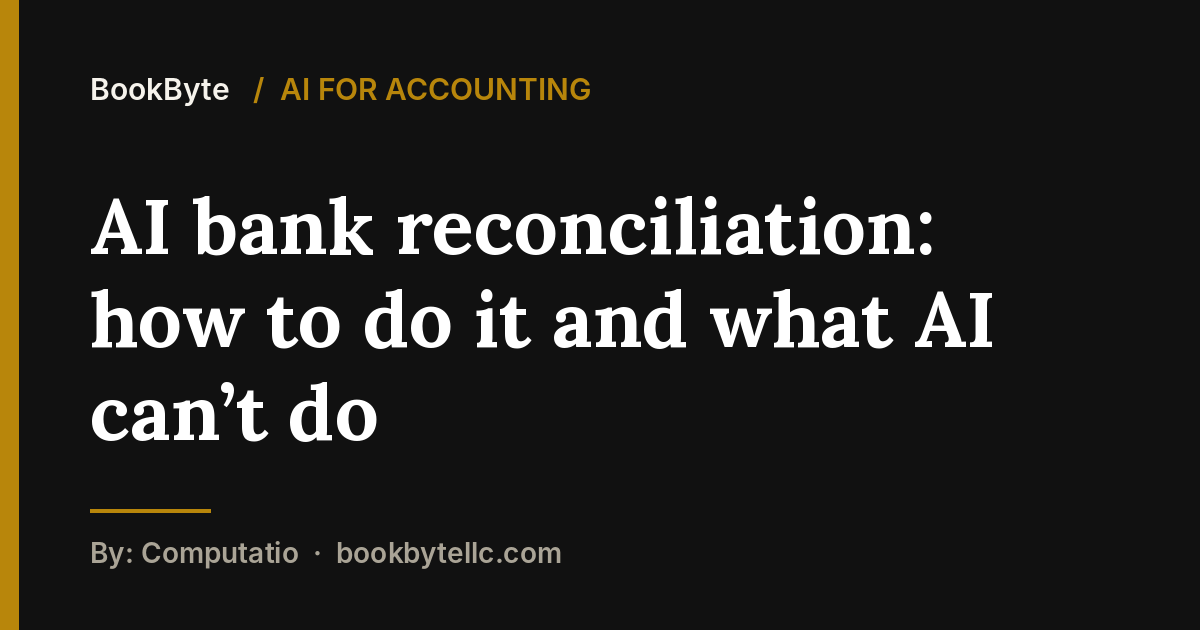
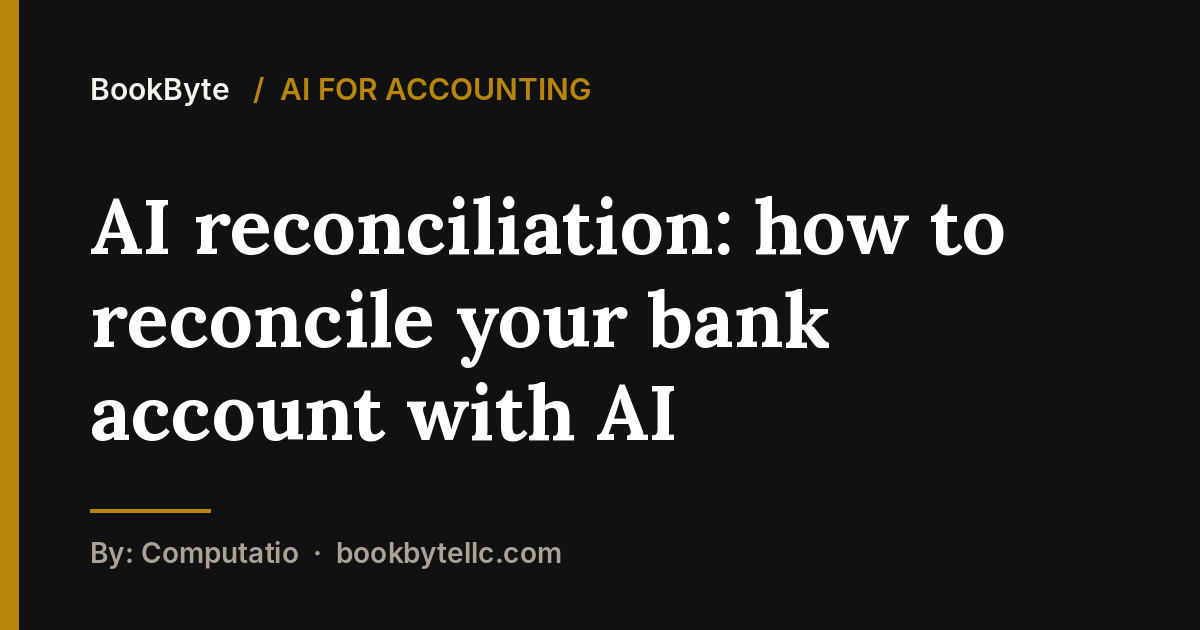
AI reconciliation guide: clearer title, direct answer, FAQ (FAQPage schema); free 13-week cash flow template linked from the canvas guide; credit card reconciliation follow-up on the calendar
Claude-Session: https://claude.ai/code/session_015RMd15M93mxq4tRnL7KYun

Changed region(s): [[0.0617, 0.4524, 0.8325, 0.6032], [0.1542, 0.3016, 0.8633, 0.4222], [0.0617, 0.6032, 0.5858, 0.7238]]

diff --git a/ai-accounting/ai-bank-reconciliation/index.html b/ai-accounting/ai-bank-reconciliation/index.html
@@ -3,29 +3,29 @@
 <head>
 <meta charset="utf-8">
 <meta name="viewport" content="width=device-width, initial-scale=1">
-<title>AI Bank Reconciliation: How to Reconcile With AI</title>
-<meta name="description" content="Use AI for bank reconciliation: copy-paste prompts to match your books to your statement, find missing and duplicate lines, and check the result yourself.">
+<title>AI Reconciliation: How to Reconcile Your Bank Account With AI</title>
+<meta name="description" content="AI reconciliation in plain English: free prompts to match your bank statement to your books, find missing and duplicate lines, and check the result.">
 <link rel="canonical" href="https://bookbytellc.com/ai-accounting/ai-bank-reconciliation/">
 
 <meta property="og:type" content="article">
 <meta property="og:site_name" content="BookByte">
-<meta property="og:title" content="AI Bank Reconciliation: How to Reconcile With AI">
-<meta property="og:description" content="Use AI for bank reconciliation: copy-paste prompts to match your books to your statement, find missing and duplicate lines, and check the result yourself.">
+<meta property="og:title" content="AI Reconciliation: How to Reconcile Your Bank Account With AI">
+<meta property="og:description" content="AI reconciliation in plain English: free prompts to match your bank statement to your books, find missing and duplicate lines, and check the result.">
 <meta property="og:url" content="https://bookbytellc.com/ai-accounting/ai-bank-reconciliation/">
 <meta property="og:image" content="https://bookbytellc.com/assets/og/ai-bank-reconciliation.png">
 <meta property="og:image:width" content="1200">
 <meta property="og:image:height" content="630">
-<meta property="og:image:alt" content="AI bank reconciliation: how to do it and what AI can’t do">
+<meta property="og:image:alt" content="AI reconciliation: how to reconcile your bank account with AI">
 <meta name="twitter:card" content="summary_large_image">
-<meta name="twitter:title" content="AI Bank Reconciliation: How to Reconcile With AI">
-<meta name="twitter:description" content="Use AI for bank reconciliation: copy-paste prompts to match your books to your statement, find missing and duplicate lines, and check the result yourself.">
+<meta name="twitter:title" content="AI Reconciliation: How to Reconcile Your Bank Account With AI">
+<meta name="twitter:description" content="AI reconciliation in plain English: free prompts to match your bank statement to your books, find missing and duplicate lines, and check the result.">
 <meta name="twitter:image" content="https://bookbytellc.com/assets/og/ai-bank-reconciliation.png">
 <meta name="theme-color" content="#111111">
 <link rel="icon" href="/assets/favicon.svg" type="image/svg+xml">
 <link rel="stylesheet" href="/assets/fonts.css">
 <link rel="stylesheet" href="/assets/style.css">
 <link rel="alternate" type="application/rss+xml" title="BookByte" href="/feed.xml">
-<script type="application/ld+json">[{"@context": "https://schema.org", "@type": "BreadcrumbList", "itemListElement": [{"@type": "ListItem", "position": 1, "name": "Home", "item": "https://bookbytellc.com/"}, {"@type": "ListItem", "position": 2, "name": "AI for Accounting", "item": "https://bookbytellc.com/ai-accounting/"}, {"@type": "ListItem", "position": 3, "name": "AI bank reconciliation: how to do it and what AI can&rsquo;t do", "item": "https://bookbytellc.com/ai-accounting/ai-bank-reconciliation/"}]}, {"@context": "https://schema.org", "@type": "Article", "headline": "AI bank reconciliation: how to do it and what AI can&rsquo;t do", "description": "Use AI for bank reconciliation: copy-paste prompts to match your books to your statement, find missing and duplicate lines, and check the result yourself.", "author": {"@type": "Organization", "name": "Computatio", "url": "https://computatio.io/"}, "publisher": {"@type": "Organization", "name": "BookByte"}, "datePublished": "2026-10-28", "dateModified": "2026-10-28", "mainEntityOfPage": "https://bookbytellc.com/ai-accounting/ai-bank-reconciliation/"}]</script>
+<script type="application/ld+json">[{"@context": "https://schema.org", "@type": "BreadcrumbList", "itemListElement": [{"@type": "ListItem", "position": 1, "name": "Home", "item": "https://bookbytellc.com/"}, {"@type": "ListItem", "position": 2, "name": "AI for Accounting", "item": "https://bookbytellc.com/ai-accounting/"}, {"@type": "ListItem", "position": 3, "name": "AI reconciliation: how to reconcile your bank account with AI", "item": "https://bookbytellc.com/ai-accounting/ai-bank-reconciliation/"}]}, {"@context": "https://schema.org", "@type": "Article", "headline": "AI reconciliation: how to reconcile your bank account with AI", "description": "AI reconciliation in plain English: free prompts to match your bank statement to your books, find missing and duplicate lines, and check the result.", "author": {"@type": "Organization", "name": "Computatio", "url": "https://computatio.io/"}, "publisher": {"@type": "Organization", "name": "BookByte"}, "datePublished": "2026-10-28", "dateModified": "2026-11-17", "mainEntityOfPage": "https://bookbytellc.com/ai-accounting/ai-bank-reconciliation/"}, {"@context": "https://schema.org", "@type": "FAQPage", "mainEntity": [{"@type": "Question", "name": "Can AI reconcile my bank account by itself?", "acceptedAnswer": {"@type": "Answer", "text": "No. AI can match lines and suggest why the rest don’t match, but it can’t see your bank or sign off. The reconciliation is done when your bookkeeping software shows the adjusted bank balance equal to your book balance."}}, {"@type": "Question", "name": "Is it safe to paste a bank statement into ChatGPT or Claude?", "acceptedAnswer": {"@type": "Answer", "text": "Remove full account and card numbers first and keep only the date, description and amount. Our data safety guide covers which settings to check before you paste anything."}}, {"@type": "Question", "name": "How often should I reconcile my bank account?", "acceptedAnswer": {"@type": "Answer", "text": "Every month. The IRS recommends reconciling your checking account each month."}}, {"@type": "Question", "name": "Does QuickBooks Online use AI for reconciliation?", "acceptedAnswer": {"@type": "Answer", "text": "QuickBooks Online’s banking page uses AI suggestions to match and categorize downloaded transactions, which you still review and accept. See how to review QuickBooks AI banking suggestions."}}, {"@type": "Question", "name": "Does this work for a credit card account?", "acceptedAnswer": {"@type": "Answer", "text": "Yes. Use the card statement as List A and your card entries as List B, and run the same two prompts. Check refunds and the payments you made to the card closely, since they are easy to leave out of the books."}}]}]</script>
 </head>
 <body>
 <a class="skip" href="#main">Skip to content</a>
@@ -36,12 +36,12 @@
 <main id="main">
 <section class="hero small"><div class="wrap narrow">
 <p class="eyebrow"><a href="/ai-accounting/" style="color:inherit;text-decoration:none">AI for Accounting</a></p>
-<h1>AI bank reconciliation: how to do it and what AI can&rsquo;t do</h1>
+<h1>AI reconciliation: how to reconcile your bank account with AI</h1>
 <p class="lede">Your bank says one number. Your books say another. You scroll both lists line by line, trying to spot the $43.17 that doesn&rsquo;t match, and an hour later you still can&rsquo;t find it.</p>
-<p class="muted" style="color:#bbb">By: Computatio &middot; Last reviewed 2026-10-28</p>
+<p class="muted" style="color:#bbb">By: Computatio &middot; Published 2026-10-28 &middot; Updated 2026-11-17</p>
 </div></section>
 <section><div class="wrap narrow prose">
-<div class="callout"><b>Quick answer:</b> AI bank reconciliation works best as a <b>matching assistant, not a calculator</b>. Export your bank statement and your book entries for the same month, remove account numbers, and ask the AI to pair each statement line with a book line and list everything left over. Then fix those items in your bookkeeping software and let the software confirm that the adjusted bank balance equals your book balance. The IRS recommends reconciling your checking account every month.</div>
+<div class="callout"><b>Quick answer:</b> AI reconciliation means using an AI chat such as ChatGPT, Claude or Gemini to match each line on your bank statement to a line in your books and explain whatever is left over, while your bookkeeping software, not the AI, confirms that the balances agree. Export both lists for the same month, remove account numbers, run the two prompts below, fix the leftovers in your software, and finish the reconciliation there.</div>
 
 <h2>You can&rsquo;t find why the balances don&rsquo;t match</h2>
 <p>Two lists, a few hundred lines each, and a gap you can&rsquo;t explain. Is it a missing entry? A typo? A charge you recorded twice?</p>
@@ -114,11 +114,24 @@ Sep 28 &middot; CHECK 1042 &middot; $400.00 &rarr; only in books &middot; &ldquo
 <li><b>It can be confidently wrong.</b> Two $15 charges in one month may be a duplicate, or two real purchases. Only the statement and receipts settle it.</li>
 </ul>
 <p>Using QuickBooks? Its banking page can match transactions for you; see <a href="/ai-accounting/quickbooks-ai-banking-suggestions/">how to review QuickBooks AI banking suggestions</a>. Still sorting categories first? Start with our <a href="/ai-accounting/ai-prompts-categorize-transactions/">AI prompts to categorize transactions</a>, then come back here. For the whole monthly routine, read <a href="/ai-accounting/how-to-use-ai-for-bookkeeping/">how to use AI for bookkeeping</a>.</p>
+<h2>AI reconciliation FAQ</h2>
+<dl class="faq">
+<dt>Can AI reconcile my bank account by itself?</dt>
+<dd>No. AI can match lines and suggest why the rest don&rsquo;t match, but it can&rsquo;t see your bank or sign off. The reconciliation is done when your bookkeeping software shows the adjusted bank balance equal to your book balance.</dd>
+<dt>Is it safe to paste a bank statement into ChatGPT or Claude?</dt>
+<dd>Remove full account and card numbers first and keep only the date, description and amount. Our <a href="/ai-accounting/financial-data-safety-ai/">data safety guide</a> covers which settings to check before you paste anything.</dd>
+<dt>How often should I reconcile my bank account?</dt>
+<dd>Every month. The IRS recommends reconciling your checking account each month.</dd>
+<dt>Does QuickBooks Online use AI for reconciliation?</dt>
+<dd>QuickBooks Online&rsquo;s banking page uses AI suggestions to match and categorize downloaded transactions, which you still review and accept. See <a href="/ai-accounting/quickbooks-ai-banking-suggestions/">how to review QuickBooks AI banking suggestions</a>.</dd>
+<dt>Does this work for a credit card account?</dt>
+<dd>Yes. Use the card statement as List A and your card entries as List B, and run the same two prompts. Check refunds and the payments you made to the card closely, since they are easy to leave out of the books.</dd>
+</dl>
 <p>Rather have someone else tie out every account each month?</p>
 <div class="cta"><b>Short on time?</b> Want reconciliation done for you? At <a href="https://computatio.io/?utm_source=bookbyte&amp;utm_medium=referral&amp;utm_campaign=ai-bank-reconciliation">Computatio</a>, AI does the matching and an accountant reviews and reconciles every account each month. Monthly Books is $500 a month.</div>
-<div class="share" aria-label="Share this guide"><b>Share this guide:</b> <a href="https://www.linkedin.com/sharing/share-offsite/?url=https%3A%2F%2Fbookbytellc.com%2Fai-accounting%2Fai-bank-reconciliation%2F" target="_blank" rel="noopener">LinkedIn</a><a href="https://www.facebook.com/sharer/sharer.php?u=https%3A%2F%2Fbookbytellc.com%2Fai-accounting%2Fai-bank-reconciliation%2F" target="_blank" rel="noopener">Facebook</a><a href="https://twitter.com/intent/tweet?url=https%3A%2F%2Fbookbytellc.com%2Fai-accounting%2Fai-bank-reconciliation%2F&amp;text=AI%20bank%20reconciliation%3A%20how%20to%20do%20it%20and%20what%20AI%20can%E2%80%99t%20do" target="_blank" rel="noopener">X</a><a href="mailto:?subject=AI%20bank%20reconciliation%3A%20how%20to%20do%20it%20and%20what%20AI%20can%E2%80%99t%20do&amp;body=https%3A%2F%2Fbookbytellc.com%2Fai-accounting%2Fai-bank-reconciliation%2F">Email</a><button type="button" data-url="https://bookbytellc.com/ai-accounting/ai-bank-reconciliation/" onclick="var b=this;navigator.clipboard.writeText(b.dataset.url).then(function(){b.textContent='Link copied'},function(){prompt('Copy this link:',b.dataset.url)})">Copy link</button></div>
+<div class="share" aria-label="Share this guide"><b>Share this guide:</b> <a href="https://www.linkedin.com/sharing/share-offsite/?url=https%3A%2F%2Fbookbytellc.com%2Fai-accounting%2Fai-bank-reconciliation%2F" target="_blank" rel="noopener">LinkedIn</a><a href="https://www.facebook.com/sharer/sharer.php?u=https%3A%2F%2Fbookbytellc.com%2Fai-accounting%2Fai-bank-reconciliation%2F" target="_blank" rel="noopener">Facebook</a><a href="https://twitter.com/intent/tweet?url=https%3A%2F%2Fbookbytellc.com%2Fai-accounting%2Fai-bank-reconciliation%2F&amp;text=AI%20reconciliation%3A%20how%20to%20reconcile%20your%20bank%20account%20with%20AI" target="_blank" rel="noopener">X</a><a href="mailto:?subject=AI%20reconciliation%3A%20how%20to%20reconcile%20your%20bank%20account%20with%20AI&amp;body=https%3A%2F%2Fbookbytellc.com%2Fai-accounting%2Fai-bank-reconciliation%2F">Email</a><button type="button" data-url="https://bookbytellc.com/ai-accounting/ai-bank-reconciliation/" onclick="var b=this;navigator.clipboard.writeText(b.dataset.url).then(function(){b.textContent='Link copied'},function(){prompt('Copy this link:',b.dataset.url)})">Copy link</button></div>
 <div class="callout"><b>Free download:</b> <a href="https://computatio.io/free-guide/?utm_source=bookbyte&amp;utm_medium=referral&amp;utm_campaign=ai-bank-reconciliation">47 write-offs for the self-employed</a>, a 42-page guide with the IRS rules behind each deduction. Free when you join the Computatio newsletter.</div>
-<h2>Sources</h2><ul><li><a href="https://www.irs.gov/publications/p583">IRS: Publication 583, Starting a Business and Keeping Records</a></li><li><a href="https://www.irs.gov/businesses/small-businesses-self-employed/how-long-should-i-keep-records">IRS: How long should I keep records?</a></li></ul>
+<h2>Sources</h2><ul><li><a href="https://www.irs.gov/publications/p583">IRS: Publication 583, Starting a Business and Keeping Records</a></li><li><a href="https://www.irs.gov/businesses/small-businesses-self-employed/how-long-should-i-keep-records">IRS: How long should I keep records?</a></li><li><a href="https://quickbooks.intuit.com/learn-support/en-us/help-article/bank-transactions/ai-suggestions-help-match-categorize-bank/L8FHOh4AD_US_en_US">Intuit QuickBooks: How AI suggestions help match and categorize bank transactions</a></li></ul>
 <p class="fine">This guide is general information, not financial, tax or legal advice for your situation. We work hard to get it right, but we can make mistakes, and rules change. Check the official sources above before you act.</p>
 </div></section>
 </main>

diff --git a/ai-accounting/index.html b/ai-accounting/index.html
@@ -38,7 +38,7 @@
 <p class="eyebrow">Guides</p><h1>AI for Accounting</h1><p class="lede">AI can turn hours of bookkeeping and tax prep into minutes, but only if you know where it&rsquo;s reliable and where it isn&rsquo;t. These guides show you how to use it and how to check its work.</p>
 <p class="hero-dfy">Short on time? <a href="https://computatio.io/monthly-bookkeeping/?utm_source=bookbyte&amp;utm_medium=referral&amp;utm_campaign=ai-hub-hero">Have Computatio do your books for you &rarr;</a></p></div></section>
 <section><div class="wrap narrow">
-<h2>Guides</h2><div class="cards"><a class="card" href="/ai-accounting/chatgpt-google-sheets-expense-summary/"><h3>ChatGPT for Google Sheets: build a monthly expense summary</h3><p>Use ChatGPT for Google Sheets (or Excel) to build a monthly income and expense summary with formulas, then check every total against your books.</p></a><a class="card" href="/ai-accounting/read-profit-and-loss-with-ai/"><h3>How to use AI to read your profit and loss statement</h3><p>Use AI to read your profit and loss statement: a copy-paste prompt, a made-up example, and the checks that catch errors before they reach your taxes.</p></a><a class="card" href="/ai-accounting/quickbooks-report-insights-reconciliation-ai/"><h3>QuickBooks AI report insights: use them before month-end</h3><p>How to run QuickBooks AI report insights on your P&amp;L and Balance Sheet, check each flag yourself, and use AI reconciliation without skipping the statement.</p></a><a class="card" href="/ai-accounting/catch-up-bookkeeping-with-ai/"><h3>How to catch up on months of bookkeeping with AI</h3><p>Catch up on months of bookkeeping with AI: gather statements, sort transactions in batches, reconcile each month, and check the work before taxes.</p></a><a class="card" href="/ai-accounting/quickbooks-chatgpt-claude-invoices/"><h3>QuickBooks in ChatGPT or Claude: check invoices first</h3><p>How to connect QuickBooks to ChatGPT or Claude, draft an invoice from a chat, and check it in QuickBooks before it goes to your customer.</p></a><a class="card" href="/ai-accounting/chart-of-accounts-with-ai/"><h3>Chart of accounts with AI: build yours (free template)</h3><p>Build a small-business chart of accounts with AI: a free template mapped to Schedule C, a copy-paste prompt, a made-up example and how to check it.</p></a><a class="card" href="/ai-accounting/financial-data-safety-ai/"><h3>How to keep your financial data safe when you use AI</h3><p>Keep financial data safe when you use AI for bookkeeping: what to strip out, a redaction prompt, a made-up example, and the IRS and FTC steps that matter.</p></a><a class="card" href="/ai-accounting/google-sheets-canvas-cash-flow-planner/"><h3>Google Sheets canvas: build a cash flow what-if tool</h3><p>Use Google Sheets canvas to turn a 13-week cash flow sheet into a what-if tool with sliders, then check it against your reconciled bank balance.</p></a><a class="card" href="/ai-accounting/separate-business-personal-expenses-ai/"><h3>Separate business and personal expenses with AI</h3><p>How to separate business and personal expenses with AI: a prompt that flags mixed charges, a made-up example, and the IRS rules to check it against.</p></a><a class="card" href="/ai-accounting/ai-receipt-scanning/"><h3>AI receipt scanning: turn phone photos into bookkeeping records</h3><p>AI receipt scanning for small business: a prompt that turns receipt photos into bookkeeping rows, a made-up example, and what the IRS expects you to keep.</p></a><a class="card" href="/ai-accounting/can-ai-do-your-accounting/"><h3>Can AI do your accounting? What it gets right and wrong</h3><p>Can AI do your accounting? See which bookkeeping tasks AI handles well, where it gets things wrong, and a simple test to check it on your own books.</p></a><a class="card" href="/ai-accounting/irs-iris-1099-e-filing-fire-retiring/"><h3>IRS FIRE is closing: e-file 1099s with IRIS instead</h3><p>IRS FIRE stops taking 1099s on Nov. 19, 2026. How to get an IRIS TCC now, e-file 1099-NECs free in IRIS, and use AI to prep your vendor list safely.</p></a><a class="card" href="/ai-accounting/ai-bank-reconciliation/"><h3>AI bank reconciliation: how to do it and what AI can&rsquo;t do</h3><p>Use AI for bank reconciliation: copy-paste prompts to match your books to your statement, find missing and duplicate lines, and check the result yourself.</p></a><a class="card" href="/ai-accounting/quickbooks-ai-banking-suggestions/"><h3>QuickBooks AI banking suggestions: review before you post</h3><p>What the green, blue and orange QuickBooks AI banking signals mean, when to use Ready to post, and a month-end check that catches wrong matches.</p></a><a class="card" href="/ai-accounting/ai-prompts-categorize-transactions/"><h3>AI prompts to categorize business transactions (copy-paste)</h3><p>Copy-and-paste AI prompts to categorize business transactions into Schedule C lines, flag personal charges and catch mistakes before they hit your books.</p></a><a class="card" href="/ai-accounting/how-to-use-ai-for-bookkeeping/"><h3>How to use AI for bookkeeping, and keep your books accurate</h3><p>Use AI for bookkeeping without wrong numbers: a 3-pass method to categorize transactions, read receipts and close the month, with a prompt to copy.</p></a></div>
+<h2>Guides</h2><div class="cards"><a class="card" href="/ai-accounting/chatgpt-google-sheets-expense-summary/"><h3>ChatGPT for Google Sheets: build a monthly expense summary</h3><p>Use ChatGPT for Google Sheets (or Excel) to build a monthly income and expense summary with formulas, then check every total against your books.</p></a><a class="card" href="/ai-accounting/read-profit-and-loss-with-ai/"><h3>How to use AI to read your profit and loss statement</h3><p>Use AI to read your profit and loss statement: a copy-paste prompt, a made-up example, and the checks that catch errors before they reach your taxes.</p></a><a class="card" href="/ai-accounting/quickbooks-report-insights-reconciliation-ai/"><h3>QuickBooks AI report insights: use them before month-end</h3><p>How to run QuickBooks AI report insights on your P&amp;L and Balance Sheet, check each flag yourself, and use AI reconciliation without skipping the statement.</p></a><a class="card" href="/ai-accounting/catch-up-bookkeeping-with-ai/"><h3>How to catch up on months of bookkeeping with AI</h3><p>Catch up on months of bookkeeping with AI: gather statements, sort transactions in batches, reconcile each month, and check the work before taxes.</p></a><a class="card" href="/ai-accounting/quickbooks-chatgpt-claude-invoices/"><h3>QuickBooks in ChatGPT or Claude: check invoices first</h3><p>How to connect QuickBooks to ChatGPT or Claude, draft an invoice from a chat, and check it in QuickBooks before it goes to your customer.</p></a><a class="card" href="/ai-accounting/chart-of-accounts-with-ai/"><h3>Chart of accounts with AI: build yours (free template)</h3><p>Build a small-business chart of accounts with AI: a free template mapped to Schedule C, a copy-paste prompt, a made-up example and how to check it.</p></a><a class="card" href="/ai-accounting/financial-data-safety-ai/"><h3>How to keep your financial data safe when you use AI</h3><p>Keep financial data safe when you use AI for bookkeeping: what to strip out, a redaction prompt, a made-up example, and the IRS and FTC steps that matter.</p></a><a class="card" href="/ai-accounting/google-sheets-canvas-cash-flow-planner/"><h3>Google Sheets canvas: build a cash flow what-if tool</h3><p>Use Google Sheets canvas to turn a 13-week cash flow sheet into a what-if tool with sliders, then check it against your reconciled bank balance.</p></a><a class="card" href="/ai-accounting/separate-business-personal-expenses-ai/"><h3>Separate business and personal expenses with AI</h3><p>How to separate business and personal expenses with AI: a prompt that flags mixed charges, a made-up example, and the IRS rules to check it against.</p></a><a class="card" href="/ai-accounting/ai-receipt-scanning/"><h3>AI receipt scanning: turn phone photos into bookkeeping records</h3><p>AI receipt scanning for small business: a prompt that turns receipt photos into bookkeeping rows, a made-up example, and what the IRS expects you to keep.</p></a><a class="card" href="/ai-accounting/can-ai-do-your-accounting/"><h3>Can AI do your accounting? What it gets right and wrong</h3><p>Can AI do your accounting? See which bookkeeping tasks AI handles well, where it gets things wrong, and a simple test to check it on your own books.</p></a><a class="card" href="/ai-accounting/irs-iris-1099-e-filing-fire-retiring/"><h3>IRS FIRE is closing: e-file 1099s with IRIS instead</h3><p>IRS FIRE stops taking 1099s on Nov. 19, 2026. How to get an IRIS TCC now, e-file 1099-NECs free in IRIS, and use AI to prep your vendor list safely.</p></a><a class="card" href="/ai-accounting/ai-bank-reconciliation/"><h3>AI reconciliation: how to reconcile your bank account with AI</h3><p>AI reconciliation in plain English: free prompts to match your bank statement to your books, find missing and duplicate lines, and check the result.</p></a><a class="card" href="/ai-accounting/quickbooks-ai-banking-suggestions/"><h3>QuickBooks AI banking suggestions: review before you post</h3><p>What the green, blue and orange QuickBooks AI banking signals mean, when to use Ready to post, and a month-end check that catches wrong matches.</p></a><a class="card" href="/ai-accounting/ai-prompts-categorize-transactions/"><h3>AI prompts to categorize business transactions (copy-paste)</h3><p>Copy-and-paste AI prompts to categorize business transactions into Schedule C lines, flag personal charges and catch mistakes before they hit your books.</p></a><a class="card" href="/ai-accounting/how-to-use-ai-for-bookkeeping/"><h3>How to use AI for bookkeeping, and keep your books accurate</h3><p>Use AI for bookkeeping without wrong numbers: a 3-pass method to categorize transactions, read receipts and close the month, with a prompt to copy.</p></a></div>
 </div></section>
 <section class="dfy" id="done-for-you"><div class="wrap">
 <div class="dfy-grid">

diff --git a/ai-accounting/google-sheets-canvas-cash-flow-planner/index.html b/ai-accounting/google-sheets-canvas-cash-flow-planner/index.html
@@ -25,7 +25,7 @@
 <link rel="stylesheet" href="/assets/fonts.css">
 <link rel="stylesheet" href="/assets/style.css">
 <link rel="alternate" type="application/rss+xml" title="BookByte" href="/feed.xml">
-<script type="application/ld+json">[{"@context": "https://schema.org", "@type": "BreadcrumbList", "itemListElement": [{"@type": "ListItem", "position": 1, "name": "Home", "item": "https://bookbytellc.com/"}, {"@type": "ListItem", "position": 2, "name": "AI for Accounting", "item": "https://bookbytellc.com/ai-accounting/"}, {"@type": "ListItem", "position": 3, "name": "Google Sheets canvas: build a cash flow what-if tool", "item": "https://bookbytellc.com/ai-accounting/google-sheets-canvas-cash-flow-planner/"}]}, {"@context": "https://schema.org", "@type": "Article", "headline": "Google Sheets canvas: build a cash flow what-if tool", "description": "Use Google Sheets canvas to turn a 13-week cash flow sheet into a what-if tool with sliders, then check it against your reconciled bank balance.", "author": {"@type": "Organization", "name": "Computatio", "url": "https://computatio.io/"}, "publisher": {"@type": "Organization", "name": "BookByte"}, "datePublished": "2026-11-05", "dateModified": "2026-11-05", "mainEntityOfPage": "https://bookbytellc.com/ai-accounting/google-sheets-canvas-cash-flow-planner/"}]</script>
+<script type="application/ld+json">[{"@context": "https://schema.org", "@type": "BreadcrumbList", "itemListElement": [{"@type": "ListItem", "position": 1, "name": "Home", "item": "https://bookbytellc.com/"}, {"@type": "ListItem", "position": 2, "name": "AI for Accounting", "item": "https://bookbytellc.com/ai-accounting/"}, {"@type": "ListItem", "position": 3, "name": "Google Sheets canvas: build a cash flow what-if tool", "item": "https://bookbytellc.com/ai-accounting/google-sheets-canvas-cash-flow-planner/"}]}, {"@context": "https://schema.org", "@type": "Article", "headline": "Google Sheets canvas: build a cash flow what-if tool", "description": "Use Google Sheets canvas to turn a 13-week cash flow sheet into a what-if tool with sliders, then check it against your reconciled bank balance.", "author": {"@type": "Organization", "name": "Computatio", "url": "https://computatio.io/"}, "publisher": {"@type": "Organization", "name": "BookByte"}, "datePublished": "2026-11-05", "dateModified": "2026-11-17", "mainEntityOfPage": "https://bookbytellc.com/ai-accounting/google-sheets-canvas-cash-flow-planner/"}]</script>
 </head>
 <body>
 <a class="skip" href="#main">Skip to content</a>
@@ -38,10 +38,12 @@
 <p class="eyebrow"><a href="/ai-accounting/" style="color:inherit;text-decoration:none">AI for Accounting</a></p>
 <h1>Google Sheets canvas: build a cash flow what-if tool</h1>
 <p class="lede">A client says they&rsquo;ll pay &ldquo;next month.&rdquo; Sales feel slower. A tax payment is due in January. You want to know one thing: will there be enough in the bank?</p>
-<p class="muted" style="color:#bbb">By: Computatio &middot; Last reviewed 2026-11-05</p>
+<p class="muted" style="color:#bbb">By: Computatio &middot; Published 2026-11-05 &middot; Updated 2026-11-17</p>
 </div></section>
 <section><div class="wrap narrow prose">
 <div class="callout"><b>Quick answer:</b> as of November 5, 2026, Gemini in Google Sheets can turn a sheet into an interactive mini-app called a <b>canvas</b>. Open your cash flow sheet and choose <b>Insert &gt; Create a canvas</b>, then ask for sliders on sales, costs and payment timing. Google lists it for Google AI Pro and Ultra, Workspace Business and Enterprise Standard and Plus, and Google AI Pro for Education, in English, on the web. <b>Start from your reconciled bank balance, and check that the canvas&rsquo;s base case matches the sheet.</b></div>
+
+<div class="callout"><b>Free template:</b> <a href="https://docs.google.com/spreadsheets/d/1OIZtlGhlFjDiZveyY3-qLRgf49LUe6qs323MVRW89pI/copy" rel="noopener">make a copy of our 13-week cash flow sheet</a> in Google Sheets. It has the one-tab layout this guide uses: your inputs in blue, every total as a formula, a low-cash warning and a check that the weeks tie out. The example numbers are made up; replace them with yours.</div>
 
 <h2>You&rsquo;re guessing at next month&rsquo;s bank balance</h2>
 <p>Your profit and loss shows what happened. It doesn&rsquo;t show when cash will land or leave. Income can look fine while the account runs thin, because a client pays late or a big bill hits in the same week.</p>
@@ -67,7 +69,7 @@
 <h2>The 13-week method for a Google Sheets canvas cash flow tool</h2>
 <ol>
 <li><b>Reconcile first.</b> <a href="/ai-accounting/ai-bank-reconciliation/">Reconcile your business bank account</a> through the last statement. That ending balance is your opening cash. Not the bank app&rsquo;s number today, and not a guess.</li>
-<li><b>Build one tab.</b> Canvas reads one tab, so put everything there: a row of assumptions at the top (weekly sales, weekly costs, sales change %, weeks the big client is late), then 13 rows, one per week, with cash in, cash out and ending balance as formulas. Add fixed items on their dates: rent, loan payments, and the January 15 estimated tax payments. If your forecast is in Excel, use File &gt; Save as Google Sheets first.</li>
+<li><b>Build one tab, or start from <a href="https://docs.google.com/spreadsheets/d/1OIZtlGhlFjDiZveyY3-qLRgf49LUe6qs323MVRW89pI/copy" rel="noopener">our free template</a>.</b> Canvas reads one tab, so put everything there: a row of assumptions at the top (weekly sales, weekly costs, sales change %, weeks the big client is late), then 13 rows, one per week, with cash in, cash out and ending balance as formulas. Add fixed items on their dates: rent, loan payments, and the January 15 estimated tax payments. If your forecast is in Excel, use File &gt; Save as Google Sheets first.</li>
 <li><b>Work on a copy.</b> Because the canvas writes to the sheet, make a copy of the file to experiment in. Keep the original as your base case.</li>
 <li><b>Open canvas.</b> Choose <b>Insert &gt; Create a canvas</b>. Google&rsquo;s help page also lists Tools &gt; Create canvas and the Canvas menu in the bottom bar.</li>
 <li><b>Paste the prompt below,</b> then refine it with follow-up prompts.</li>

diff --git a/assets/style.css b/assets/style.css
@@ -97,3 +97,5 @@ footer.site .legal a{display:inline;margin:0;color:#ccc}
 .dfy-more{font-size:14px;color:var(--muted)!important;margin:16px 0 0}
 .dfy-more a{color:var(--gold-dark,#8A6508)}
 @media(max-width:820px){.dfy-grid{grid-template-columns:1fr}}
+
+dl.faq{margin:16px 0 24px}dl.faq dt{font-weight:700;margin-top:18px}dl.faq dd{margin:6px 0 0}

diff --git a/_src/articles.py b/_src/articles.py
@@ -487,12 +487,12 @@ Oct 25 &middot; ADOBE *CREATIVE CLD &middot; $59.99 &rarr; Software &middot; gre
   ("IRS: Publication 583, Starting a Business and Keeping Records","https://www.irs.gov/publications/p583")],
  "quickbooks-ai-banking-suggestions"),
 article("/ai-accounting/ai-bank-reconciliation/","/ai-accounting/","AI for Accounting",
- "AI Bank Reconciliation: How to Reconcile With AI",
- "AI bank reconciliation: how to do it and what AI can&rsquo;t do",
- "Use AI for bank reconciliation: copy-paste prompts to match your books to your statement, find missing and duplicate lines, and check the result yourself.",
+ "AI Reconciliation: How to Reconcile Your Bank Account With AI",
+ "AI reconciliation: how to reconcile your bank account with AI",
+ "AI reconciliation in plain English: free prompts to match your bank statement to your books, find missing and duplicate lines, and check the result.",
  "2026-10-28",
  "Your bank says one number. Your books say another. You scroll both lists line by line, trying to spot the $43.17 that doesn&rsquo;t match, and an hour later you still can&rsquo;t find it.",
- '''<div class="callout"><b>Quick answer:</b> AI bank reconciliation works best as a <b>matching assistant, not a calculator</b>. Export your bank statement and your book entries for the same month, remove account numbers, and ask the AI to pair each statement line with a book line and list everything left over. Then fix those items in your bookkeeping software and let the software confirm that the adjusted bank balance equals your book balance. The IRS recommends reconciling your checking account every month.</div>
+ '''<div class="callout"><b>Quick answer:</b> AI reconciliation means using an AI chat such as ChatGPT, Claude or Gemini to match each line on your bank statement to a line in your books and explain whatever is left over, while your bookkeeping software, not the AI, confirms that the balances agree. Export both lists for the same month, remove account numbers, run the two prompts below, fix the leftovers in your software, and finish the reconciliation there.</div>
 
 <h2>You can&rsquo;t find why the balances don&rsquo;t match</h2>
 <p>Two lists, a few hundred lines each, and a gap you can&rsquo;t explain. Is it a missing entry? A typo? A charge you recorded twice?</p>
@@ -565,10 +565,24 @@ Sep 28 &middot; CHECK 1042 &middot; $400.00 &rarr; only in books &middot; &ldquo
 <li><b>It can be confidently wrong.</b> Two $15 charges in one month may be a duplicate, or two real purchases. Only the statement and receipts settle it.</li>
 </ul>
 <p>Using QuickBooks? Its banking page can match transactions for you; see <a href="/ai-accounting/quickbooks-ai-banking-suggestions/">how to review QuickBooks AI banking suggestions</a>. Still sorting categories first? Start with our <a href="/ai-accounting/ai-prompts-categorize-transactions/">AI prompts to categorize transactions</a>, then come back here. For the whole monthly routine, read <a href="/ai-accounting/how-to-use-ai-for-bookkeeping/">how to use AI for bookkeeping</a>.</p>
+<h2>AI reconciliation FAQ</h2>
+<dl class="faq">
+<dt>Can AI reconcile my bank account by itself?</dt>
+<dd>No. AI can match lines and suggest why the rest don&rsquo;t match, but it can&rsquo;t see your bank or sign off. The reconciliation is done when your bookkeeping software shows the adjusted bank balance equal to your book balance.</dd>
+<dt>Is it safe to paste a bank statement into ChatGPT or Claude?</dt>
+<dd>Remove full account and card numbers first and keep only the date, description and amount. Our <a href="/ai-accounting/financial-data-safety-ai/">data safety guide</a> covers which settings to check before you paste anything.</dd>
+<dt>How often should I reconcile my bank account?</dt>
+<dd>Every month. The IRS recommends reconciling your checking account each month.</dd>
+<dt>Does QuickBooks Online use AI for reconciliation?</dt>
+<dd>QuickBooks Online&rsquo;s banking page uses AI suggestions to match and categorize downloaded transactions, which you still review and accept. See <a href="/ai-accounting/quickbooks-ai-banking-suggestions/">how to review QuickBooks AI banking suggestions</a>.</dd>
+<dt>Does this work for a credit card account?</dt>
+<dd>Yes. Use the card statement as List A and your card entries as List B, and run the same two prompts. Check refunds and the payments you made to the card closely, since they are easy to leave out of the books.</dd>
+</dl>
 <p>Rather have someone else tie out every account each month?</p>''',
  'Want reconciliation done for you? At <a href="CTAURL">Computatio</a>, AI does the matching and an accountant reviews and reconciles every account each month. Monthly Books is $500 a month.',
  [("IRS: Publication 583, Starting a Business and Keeping Records","https://www.irs.gov/publications/p583"),
-  ("IRS: How long should I keep records?","https://www.irs.gov/businesses/small-businesses-self-employed/how-long-should-i-keep-records")],
+  ("IRS: How long should I keep records?","https://www.irs.gov/businesses/small-businesses-self-employed/how-long-should-i-keep-records"),
+  ("Intuit QuickBooks: How AI suggestions help match and categorize bank transactions","https://quickbooks.intuit.com/learn-support/en-us/help-article/bank-transactions/ai-suggestions-help-match-categorize-bank/L8FHOh4AD_US_en_US")],
  "ai-bank-reconciliation"),
 article("/ai-accounting/irs-iris-1099-e-filing-fire-retiring/","/ai-accounting/","AI for Accounting",
  "IRS FIRE is closing: e-file 1099s with IRIS instead",
@@ -897,6 +911,8 @@ article("/ai-accounting/google-sheets-canvas-cash-flow-planner/","/ai-accounting
  "A client says they&rsquo;ll pay &ldquo;next month.&rdquo; Sales feel slower. A tax payment is due in January. You want to know one thing: will there be enough in the bank?",
  '''<div class="callout"><b>Quick answer:</b> as of November 5, 2026, Gemini in Google Sheets can turn a sheet into an interactive mini-app called a <b>canvas</b>. Open your cash flow sheet and choose <b>Insert &gt; Create a canvas</b>, then ask for sliders on sales, costs and payment timing. Google lists it for Google AI Pro and Ultra, Workspace Business and Enterprise Standard and Plus, and Google AI Pro for Education, in English, on the web. <b>Start from your reconciled bank balance, and check that the canvas&rsquo;s base case matches the sheet.</b></div>
 
+<div class="callout"><b>Free template:</b> <a href="https://docs.google.com/spreadsheets/d/1OIZtlGhlFjDiZveyY3-qLRgf49LUe6qs323MVRW89pI/copy" rel="noopener">make a copy of our 13-week cash flow sheet</a> in Google Sheets. It has the one-tab layout this guide uses: your inputs in blue, every total as a formula, a low-cash warning and a check that the weeks tie out. The example numbers are made up; replace them with yours.</div>
+
 <h2>You&rsquo;re guessing at next month&rsquo;s bank balance</h2>
 <p>Your profit and loss shows what happened. It doesn&rsquo;t show when cash will land or leave. Income can look fine while the account runs thin, because a client pays late or a big bill hits in the same week.</p>
 <p><b>Profit is not cash.</b> A cash flow forecast fills that gap, week by week.</p>
@@ -921,7 +937,7 @@ article("/ai-accounting/google-sheets-canvas-cash-flow-planner/","/ai-accounting
 <h2>The 13-week method for a Google Sheets canvas cash flow tool</h2>
 <ol>
 <li><b>Reconcile first.</b> <a href="/ai-accounting/ai-bank-reconciliation/">Reconcile your business bank account</a> through the last statement. That ending balance is your opening cash. Not the bank app&rsquo;s number today, and not a guess.</li>
-<li><b>Build one tab.</b> Canvas reads one tab, so put everything there: a row of assumptions at the top (weekly sales, weekly costs, sales change %, weeks the big client is late), then 13 rows, one per week, with cash in, cash out and ending balance as formulas. Add fixed items on their dates: rent, loan payments, and the January 15 estimated tax payments. If your forecast is in Excel, use File &gt; Save as Google Sheets first.</li>
+<li><b>Build one tab, or start from <a href="https://docs.google.com/spreadsheets/d/1OIZtlGhlFjDiZveyY3-qLRgf49LUe6qs323MVRW89pI/copy" rel="noopener">our free template</a>.</b> Canvas reads one tab, so put everything there: a row of assumptions at the top (weekly sales, weekly costs, sales change %, weeks the big client is late), then 13 rows, one per week, with cash in, cash out and ending balance as formulas. Add fixed items on their dates: rent, loan payments, and the January 15 estimated tax payments. If your forecast is in Excel, use File &gt; Save as Google Sheets first.</li>
 <li><b>Work on a copy.</b> Because the canvas writes to the sheet, make a copy of the file to experiment in. Keep the original as your base case.</li>
 <li><b>Open canvas.</b> Choose <b>Insert &gt; Create a canvas</b>. Google&rsquo;s help page also lists Tools &gt; Create canvas and the Canvas menu in the bottom bar.</li>
 <li><b>Paste the prompt below,</b> then refine it with follow-up prompts.</li>

diff --git a/_src/build.py b/_src/build.py
@@ -30,6 +30,9 @@ def layout(p):
         ld.append({"@context":"https://schema.org","@type":"Article","headline":p["h1"],"description":p["desc"],
                    "author":{"@type":"Organization","name":SITE["author"],"url":"https://computatio.io/"},"publisher":{"@type":"Organization","name":SITE["name"]},
                    "datePublished":p["published"],"dateModified":p.get("reviewed",p["published"]),"mainEntityOfPage":url})
+    fq = faq_ld(p["body"])
+    if fq:
+        ld.append(fq)
     nav = "".join(f'<a href="{h}"{" aria-current=\"page\"" if p["path"].startswith(h) else ""}>{esc(n)}</a>' for h,n in SITE["nav"])
     robots = '<meta name="robots" content="noindex">' if p.get("noindex") else ""
     return f'''<!doctype html>
@@ -88,7 +91,29 @@ def card_list(arts):
     return '<div class="cards">' + "".join(
         f'<a class="card" href="{a["path"]}"><h3>{a["h1"]}</h3><p>{a["desc"]}</p></a>' for a in arts) + '</div>'
 
+# Guides revised after publishing: path -> date of the substantive update.
+# Shown as "Updated <date>" in the byline and used as dateModified.
+UPDATED = {
+    "/ai-accounting/ai-bank-reconciliation/": "2026-11-17",
+    "/ai-accounting/google-sheets-canvas-cash-flow-planner/": "2026-11-17",
+}
+
+def faq_ld(body):
+    """FAQPage JSON-LD from a <dl class="faq"> block, if the page has one."""
+    m = re.search(r'<dl class="faq">(.*?)</dl>', body, re.S)
+    if not m:
+        return None
+    strip = lambda h: html.unescape(re.sub(r"<[^>]+>", "", h)).strip()
+    pairs = re.findall(r"<dt>(.*?)</dt>\s*<dd>(.*?)</dd>", m.group(1), re.S)
+    return {"@context":"https://schema.org","@type":"FAQPage","mainEntity":[
+        {"@type":"Question","name":strip(q),"acceptedAnswer":{"@type":"Answer","text":strip(a)}} for q,a in pairs]}
+
 def main():
+    for a in ARTICLES:
+        d = UPDATED.get(a["path"])
+        if d and d > a["published"]:
+            a["reviewed"] = d
+            a["body"] = a["body"].replace(f'Last reviewed {a["published"]}', f'Published {a["published"]} &middot; Updated {d}', 1)
     live = sorted([a for a in ARTICLES if a["published"] <= TODAY], key=lambda a: a["published"], reverse=True)
     live_paths = {a["path"] for a in live}
     all_paths = {a["path"] for a in ARTICLES}
